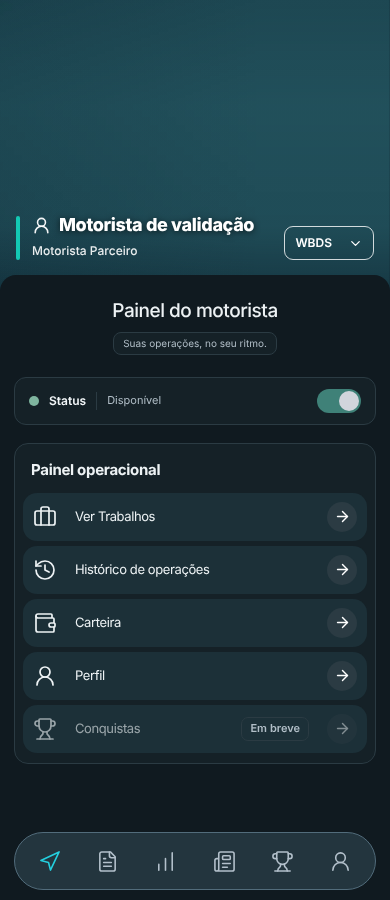
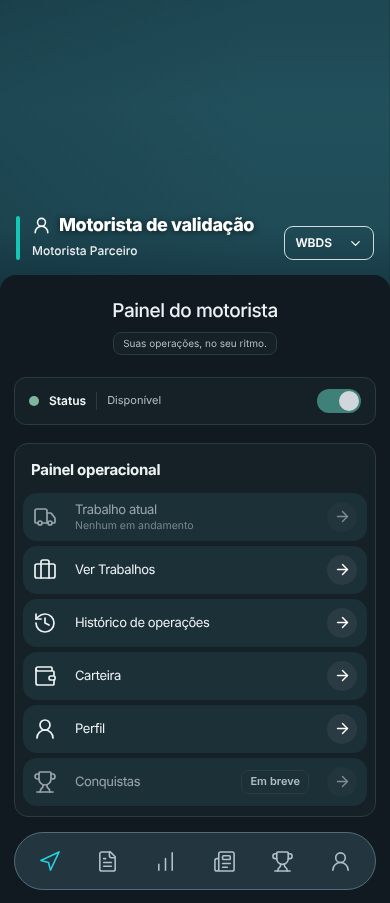
v82: Painel do motorista vira o menu — opção Trabalho atual no topo; escolher o perfil de motorista cai no menu — Android 1.0.588, Web 2.3.245, Windows 0.2.14
Claude-Session: https://claude.ai/code/session_01ASk6AVRSjq21hzr82RT83a

diff --git a/src/pages/driver/Dashboard.tsx b/src/pages/driver/Dashboard.tsx
@@ -20,7 +20,7 @@ import { LandscapeOperationPanel } from "../../components/operations/LandscapeOp
 import { useLandscapeWorkspace } from "../../hooks/useLandscapeWorkspace";
 import { useLandscapeBodyHeight } from "../../hooks/useLandscapeBodyHeight";
 import { createPortal } from "react-dom";
-import React, { useState, useMemo, useEffect } from "react";
+import React, { useState, useMemo, useEffect, useRef } from "react";
 import { PendingProOperationNotice } from "../../components/PendingProOperationNotice";
 import { useLocation, useNavigate } from "react-router-dom";
 import { useActivityStore, useOperationalStore, useSessionStore, type Job } from "../../context/AppContext";
@@ -66,6 +66,7 @@ import {
   ChevronsUpDown,
   ChevronsDownUp,
   Wallet,
+  ArrowLeft,
 } from "lucide-react";
 import { format, differenceInDays } from "date-fns";
 import { prepareAndCommitNavigation } from "../../lib/navigationTransition";
@@ -307,6 +308,20 @@ function DashboardComponent({
     () => resolveOperationContract(myJob, contracts),
     [myJob, contracts],
   );
+
+  // O Painel do motorista abre no menu (mesmo com operação em andamento); "Trabalho atual" abre a operação.
+  const [currentOpen, setCurrentOpen] = useState(false);
+  const baselineJobRef = useRef<string | null | undefined>(undefined);
+  useEffect(() => {
+    if (operationCardOnly) return;
+    if (!(jobsReady && (!myJob || Boolean(contract) || contractsReady))) return;
+    const id = myJob?.id || null;
+    if (baselineJobRef.current === undefined) { baselineJobRef.current = id; return; } // operação que já existia ao abrir: fica no menu
+    if (!id) { baselineJobRef.current = null; setCurrentOpen(false); return; }
+    if (id !== baselineJobRef.current) { baselineJobRef.current = id; setCurrentOpen(true); } // iniciou um trabalho agora: abre a operação
+  }, [operationCardOnly, jobsReady, contractsReady, myJob, contract]);
+  const panelMenuStamp = (location.state as { panelMenu?: number } | null)?.panelMenu;
+  useEffect(() => { if (panelMenuStamp) setCurrentOpen(false); }, [panelMenuStamp]);
 
   const currentOperationTrips = useMemo(() => {
     if (!myJob) return [];
@@ -969,7 +984,7 @@ function DashboardComponent({
     );
   }
 
-  if (!myJob || !contract) {
+  if (!myJob || !contract || (!operationCardOnly && !currentOpen)) {
     if (operationCardOnly) {
       return <div className="rounded-2xl border border-dashed border-slate-200 bg-white p-6 text-center text-[13px] text-slate-500 dark:border-nvu-line dark:bg-nvu-surface dark:text-nvu-muted">Nenhuma operação em andamento.</div>;
     }
@@ -991,6 +1006,7 @@ function DashboardComponent({
       key={`assigned:${resultScope}`} jobs={pendingDriverJobs} contracts={contracts} companyName={currentCompany?.companyName || currentCompany?.name} suspended={operationalSuspension.active}
       startingJobId={startingJobId} onStart={async job => {
         if (operationalSuspension.active || startingJobId) return;
+        if (myJob && contract) { toast.error("Finalize o trabalho atual antes de iniciar outro."); return; }
         if (job.partnershipId) { setPartnershipStartJob(job); return; }
         { const offer = rewardOfferFor(job); if (offer) { setRewardStart({ job, offer }); return; } }
         setStartingJobId(job.id);
@@ -1004,9 +1020,11 @@ function DashboardComponent({
         online={Boolean(currentUser?.isOnline)} suspended={operationalSuspension.active}
         onAvailabilityChange={updateUserOnlineStatus}
         onProfile={() => navigate("/driver/profile", { state: { profileTab: "profile" } })} onWallet={() => navigate("/driver/recompensas")}
+        current={myJob && contract ? { name: String(contract.name || "Operação"), progress: `${currentOperationProgress}${contract.totalDeliveries ? ` de ${contract.totalDeliveries}` : ""} entregas` } : null}
+        onCurrent={() => setCurrentOpen(true)}
         workJobIds={pendingDriverJobs.map(job => job.id)}
         works={<>
-          {solicitarTrabalhoCard}
+          {myJob && contract ? <section className="nvu-idle-empty-queue" aria-label="Trabalho em andamento"><h2>Trabalho em andamento</h2><p>Finalize o trabalho atual para solicitar ou iniciar outro.</p></section> : solicitarTrabalhoCard}
           {filaOperacionalSection}
           {hasAutomaticQueues && <AutomaticDriverQueue blocked={operationalSuspension.active} />}
           {!hasAutomaticQueues && !pendingDriverJobs.length && <section className="nvu-idle-empty-queue" aria-label="Fila operacional">
@@ -1297,6 +1315,10 @@ function DashboardComponent({
 
   return (
     <div className="space-y-3 sm:space-y-4 w-full max-w-7xl mx-auto pb-4 pt-0">
+      {!operationCardOnly && <div className="nvu-current-back" data-testid="current-operation-back">
+        <button type="button" onClick={() => setCurrentOpen(false)} aria-label="Voltar ao painel do motorista"><ArrowLeft size={18} aria-hidden="true" /></button>
+        <h2>Trabalho atual</h2>
+      </div>}
       {maintenanceMode && (
         <WorkModeMaintenanceDialog
           mode={maintenanceMode === "simple" ? "pro" : maintenanceMode}

diff --git a/src/components/driver/DriverIdlePanel.tsx b/src/components/driver/DriverIdlePanel.tsx
@@ -1,5 +1,5 @@
 import React, { useState } from "react";
-import { ArrowLeft, ArrowRight, Briefcase, CheckCircle2, ChevronDown, ChevronRight, Clock, History, Route, Trophy, UserRound, Wallet } from "lucide-react";
+import { ArrowLeft, ArrowRight, Briefcase, CheckCircle2, ChevronDown, ChevronRight, Clock, History, Route, Trophy, Truck, UserRound, Wallet } from "lucide-react";
 import type { LucideIcon } from "lucide-react";
 import { useSessionStore } from "../../context/AppContext";
 import { useDriverRewards } from "../../hooks/useRewards";
@@ -17,13 +17,16 @@ type IdleMenuItem = { id: string; label: string; icon: LucideIcon; hint?: string
  * Painel do motorista sem operação: status no topo e uma lista de opções (mesmo desenho da Central de gestão).
  * "Ver Trabalhos" e "Histórico de operações" abrem a própria tela dentro do painel, com botão de voltar.
  */
-export function DriverIdlePanel({ online, suspended, onAvailabilityChange, onProfile, onWallet, workJobIds = [], works, history, defaultView = "menu", children }: {
+export function DriverIdlePanel({ online, suspended, onAvailabilityChange, onProfile, onWallet, current = null, onCurrent, workJobIds = [], works, history, defaultView = "menu", children }: {
   online: boolean;
   suspended: boolean;
   onAvailabilityChange: (online: boolean) => void;
   onProfile: () => void;
   /** Abre a página Carteira (ofertas, recebimentos e histórico de ganhos). */
   onWallet: () => void;
+  /** Trabalho em andamento (se houver): a opção "Trabalho atual" abre a tela da operação. */
+  current?: { name: string; progress?: string } | null;
+  onCurrent?: () => void;
   /** Trabalhos recebidos (ids) — conta quantos têm oferta de pagamento nova. */
   workJobIds?: string[];
   works: React.ReactNode;
@@ -38,6 +41,7 @@ export function DriverIdlePanel({ online, suspended, onAvailabilityChange, onPro
   const worksCount = workJobIds.length, worksNew = offers.filter(offer => offer.status === "pending" && offer.jobId && workJobIds.includes(offer.jobId)).length;
   const id = React.useId();
   const items: IdleMenuItem[] = [
+    { id: "current", label: "Trabalho atual", icon: Truck, hint: current ? [current.name, current.progress].filter(Boolean).join(" · ") : "Nenhum em andamento", disabled: !current, onSelect: onCurrent },
     { id: "works", label: "Ver Trabalhos", icon: Briefcase, badge: worksNew > 0 ? `${worksNew} ${worksNew === 1 ? "nova" : "novas"}` : worksCount || undefined, onSelect: () => setView("works") },
     { id: "history", label: "Histórico de operações", icon: History, onSelect: () => setView("history") },
     { id: "wallet", label: "Carteira", icon: Wallet, onSelect: onWallet },

diff --git a/src/layouts/AdminLayout.tsx b/src/layouts/AdminLayout.tsx
@@ -1,3 +1,4 @@
+import { driverPanelMenuState } from "../lib/driverPanelMenu";
 import { corporateNotificationTab } from "../lib/notificationNavigation";
 import { RetainedWorkspaceOutlet } from "../components/common/RetainedWorkspaceOutlet";
 import { NvuWordmark } from "../components/common/NvuWordmark";
@@ -265,7 +266,7 @@ export default function AdminLayout() {
       // profile. Navigation alone would leave its queued role update alive.
       commitRoleVisualTransition(newRole, () => {
         void switchRole(newRole, activeCompanyId || undefined);
-        navigate(target, { replace: true });
+        navigate(target, { replace: true, ...(target === "/driver/profile" ? { state: driverPanelMenuState() } : {}) });
       });
       return;
     }
@@ -296,7 +297,7 @@ export default function AdminLayout() {
 
     commitRoleVisualTransition(newRole, () => {
       void switchRole(newRole, activeCompanyId || undefined);
-      navigate(target, { replace: true });
+      navigate(target, { replace: true, ...(target === "/driver/profile" ? { state: driverPanelMenuState() } : {}) });
     });
     void preloadRoute(target).catch(() => undefined);
   };
@@ -311,7 +312,7 @@ export default function AdminLayout() {
       void switchRole(nextRole, companyId);
       setIsProfileMenuOpen(false);
       setIsMobileMenuOpen(false);
-      navigate(target, { replace: true });
+      navigate(target, { replace: true, ...(target === "/driver/profile" ? { state: driverPanelMenuState() } : {}) });
     };
 
     if (nextRole === activeRole) {

diff --git a/src/layouts/DriverLayout.tsx b/src/layouts/DriverLayout.tsx
@@ -1,3 +1,4 @@
+import { driverPanelMenuState } from "../lib/driverPanelMenu";
 import { RetainedWorkspaceOutlet } from "../components/common/RetainedWorkspaceOutlet";
 import { NvuWordmark } from "../components/common/NvuWordmark";
 import { resolveNewsSessionSimulator } from "../lib/newsSimulator";
@@ -320,7 +321,7 @@ export default function DriverLayout() {
     if (activeRole === newRole) {
       commitRoleVisualTransition(newRole, () => {
         void switchRole(newRole, activeCompanyId || undefined);
-        navigate(target, { replace: true });
+        navigate(target, { replace: true, ...(target === "/driver/profile" ? { state: driverPanelMenuState() } : {}) });
       });
       return;
     }
@@ -345,7 +346,7 @@ export default function DriverLayout() {
 
     commitRoleVisualTransition(newRole, () => {
       void switchRole(newRole, activeCompanyId || undefined);
-      navigate(target, { replace: true });
+      navigate(target, { replace: true, ...(target === "/driver/profile" ? { state: driverPanelMenuState() } : {}) });
     });
     void preloadRoute(target).catch(() => undefined);
   };
@@ -361,7 +362,7 @@ export default function DriverLayout() {
       void switchRole(nextRole, companyId);
       setIsProfileMenuOpen(false);
       setIsMobileMenuOpen(false);
-      navigate(target, { replace: true });
+      navigate(target, { replace: true, ...(target === "/driver/profile" ? { state: driverPanelMenuState() } : {}) });
     };
 
     if (nextRole === activeRole) {

diff --git a/src/components/driver/DriverWorkspace.css b/src/components/driver/DriverWorkspace.css
@@ -539,3 +539,8 @@ body .nvu-admin-company-page.nvu-company-workspace .nvu-company-hero-content { p
 .nvu-offer-card[data-late="1"] .nvu-offer-note strong { color: #c0392b; }
 .nvu-offer-start { display: flex; align-items: center; justify-content: space-between; gap: 10px; min-height: 44px; margin-top: 1px; padding: 4px 5px 4px 18px; border-radius: 999px; font-size: 12.5px; font-weight: 800; color: #052b2a; background: linear-gradient(135deg, #c9fff6, #69e0cf 60%, #3fc1b3); box-shadow: 0 8px 20px rgba(63, 193, 179, .28), inset 0 1px 0 rgba(255, 255, 255, .55); }
 .nvu-offer-start i { display: grid; place-items: center; width: 34px; height: 34px; border-radius: 50%; background: #052b2a; color: #c9fff6; }
+
+/* Botão de voltar da tela "Trabalho atual" (a operação aberta pelo menu do painel). */
+.nvu-current-back { display: flex; align-items: center; gap: 10px; padding: 2px 2px 0; }
+.nvu-current-back h2 { margin: 0; font-size: 15px; font-weight: 700; letter-spacing: -.02em; color: var(--driver-text, inherit); }
+.nvu-current-back button { display: grid; place-items: center; width: 36px; height: 36px; border-radius: 50%; border: 1px solid var(--driver-line, #dce5ea); color: var(--driver-text, inherit); background: var(--driver-paper, transparent); }

diff --git a/scripts/fixtures/driver-idle-panel-492.tsx b/scripts/fixtures/driver-idle-panel-492.tsx
@@ -37,7 +37,7 @@ function App() {
       <main className="nvu-driver-surface" data-page="dashboard">
         <DriverIdlePanel key={`panel:${generation}`} defaultView={config.view || "menu"} online={config.online !== false} suspended={Boolean(config.suspended)}
           onAvailabilityChange={online => { calls.push({ action: "availability", online }); setConfig((v: any) => ({ ...v, online })); }}
-          onProfile={() => calls.push({ action: "profile" })} onWallet={() => calls.push({ action: "wallet" })} workJobIds={config.manual ? [manual.id] : []}
+          current={config.current ? { name: "BLS - 30", progress: "3 de 12 entregas" } : null} onCurrent={() => calls.push({ action: "current" })} onProfile={() => calls.push({ action: "profile" })} onWallet={() => calls.push({ action: "wallet" })} workJobIds={config.manual ? [manual.id] : []}
           works={<>
           <DriverWorkRequest variant="panel" online={config.online !== false} suspended={Boolean(config.suspended)} busy={Boolean(config.busy)}
             pending={Boolean(config.pending)} requestedAt="12:00" success={Boolean(config.success)}

diff --git a/src/lib/driverPanelMenu.ts b/src/lib/driverPanelMenu.ts
@@ -1,0 +1,7 @@
+/**
+ * Escolher o perfil de motorista (ou trocar de empresa como motorista) sempre cai no menu do Painel do motorista,
+ * mesmo com uma operação em andamento: o estado de navegação leva um carimbo novo e o painel volta para o menu.
+ */
+export function driverPanelMenuState() {
+  return { profileTab: "dashboard", panelMenu: Date.now() };
+}

diff --git a/capacitor.config.ts b/capacitor.config.ts
@@ -15,7 +15,7 @@ const selfHostedOtaEnabled =
   && Boolean(selfHostedOtaManifestUrl)
   && Boolean(selfHostedOtaPublicKey);
 const nativeChannel = String(
-  process.env.NVU_NATIVE_CHANNEL || "production-587",
+  process.env.NVU_NATIVE_CHANNEL || "production-588",
 ).trim();
 
 /**

diff --git a/LEIA-ME-1.0.588.md b/LEIA-ME-1.0.588.md
@@ -1,6 +1,14 @@
-# NVU PRO 1.0.587 (Android) / Web 2.3.244 / Windows 0.2.13
+# NVU PRO 1.0.588 (Android) / Web 2.3.245 / Windows 0.2.14
 
-Base atual do projeto (branch `dist-build`). **Uma única base**: Web (`src/`), Android (`android/`, `versionCode` 587 — instala como atualização da 586/585/584/583/582/581/580/579/578/577/576/575/574/573/572/571/570/569/568/567/566/565/564/563/562/561/560/559/558/557/556/555/554/553/552/551/550, sem limpar dados), Windows (`desktop/windows/`, 0.2.9, carrega o mesmo web) e servidor (`functions/`, `firestore.rules`, `storage.rules`).
+Base atual do projeto (branch `dist-build`). **Uma única base**: Web (`src/`), Android (`android/`, `versionCode` 588 — instala como atualização da 587/586/585/584/583/582/581/580/579/578/577/576/575/574/573/572/571/570/569/568/567/566/565/564/563/562/561/560/559/558/557/556/555/554/553/552/551/550, sem limpar dados), Windows (`desktop/windows/`, 0.2.9, carrega o mesmo web) e servidor (`functions/`, `firestore.rules`, `storage.rules`).
+
+## 1.0.588 — Painel do motorista vira o menu (Trabalho atual)
+- **O Painel do motorista agora abre sempre no menu**, com ou sem operação em andamento. **Escolher o perfil de motorista** (Alternar perfil / trocar de empresa como motorista) **cai nesse menu**.
+- **Nova opção “Trabalho atual” no topo da lista.** Com operação em andamento, ela mostra o nome e o progresso e **abre a tela da operação** (a mesma de antes: card, veículo, finalizar etc.), com botão de voltar ao menu. Sem operação, fica desabilitada (“Nenhum em andamento”).
+- **Ao iniciar um trabalho**, a tela da operação abre sozinha. Ao finalizar, volta ao menu (com o resultado da operação).
+- Em “Ver Trabalhos”, com um trabalho em andamento, o pedido de trabalho dá lugar ao aviso “Finalize o trabalho atual…” e a fila não inicia outro trabalho.
+- A aba **Atividade** continua mostrando a operação ativa como antes.
+- Sem mudança no servidor (nada a publicar). **Windows 0.2.14** acompanha esta versão.
 
 ## 1.0.587 — Painel operacional: sem “Solicitar trabalho”, Perfil abre o Resumo do período
 - **Removida a opção “Solicitar trabalho”** do Painel operacional (o pedido continua em “Ver Trabalhos”). A lista fica: Ver Trabalhos, Histórico de operações, Carteira, Perfil e Conquistas (em breve).

diff --git a/desktop/windows/README.md b/desktop/windows/README.md
@@ -1,4 +1,4 @@
-# NVU PRO Windows 0.2.13
+# NVU PRO Windows 0.2.14
 
 Aplicativo Windows (Electron) e plugin de telemetria SCS (ETS2/ATS) do mesmo projeto Web/Android. Este documento é técnico; o guia para o usuário final é `GUIA-ATUALIZAR-NVU-E-PREPARAR-ETS2-ATS.md`.
 
@@ -8,7 +8,7 @@ Aplicativo Windows (Electron) e plugin de telemetria SCS (ETS2/ATS) do mesmo pro
 
 | Arquivo | Para quem |
 |---|---|
-| `NVU-PRO-Setup-0.2.13-x64.exe` | **Principal.** Instala ou atualiza a NVU (por usuário, sem administrador). |
+| `NVU-PRO-Setup-0.2.14-x64.exe` | **Principal.** Instala ou atualiza a NVU (por usuário, sem administrador). |
 | `release-manifest.json`, `SHA256SUMS.txt`, `Verificar-NVU.ps1` | Conferência do arquivo baixado (tamanho, SHA-256, assinatura). |
 | `nvu_scs_telemetry.dll` + `.manifest.json` e `plugin/` (fonte) | Opcional/técnico: plugin e fonte do plugin. |
 | Projeto completo (ZIP) e relatório | Opcional/técnico. |
@@ -29,7 +29,7 @@ npm run windows:verify                # reverifica artifacts/windows (tamanho, S
 npm run windows:portable              # secundário: ZIP sem instalação
 npm run windows:dev                   # abre o aplicativo a partir do código
 npm run test:role-matrix              # matriz por papel (emulador, dados fictícios)
-bash desktop/windows/tests/e2e/wine-installer-check.sh artifacts/windows/NVU-PRO-Setup-0.2.13-x64.exe ~/wine-nvu   # emulado (Wine), prefixo descartável
+bash desktop/windows/tests/e2e/wine-installer-check.sh artifacts/windows/NVU-PRO-Setup-0.2.14-x64.exe ~/wine-nvu   # emulado (Wine), prefixo descartável
 ```
 
 A versão do aplicativo e do plugin vem de **uma única fonte**: `desktop/windows/package.json` (`version` e `nvu.pluginVersion`). O build do plugin grava a versão na DLL e gera `nvu_scs_telemetry.manifest.json` (SHA-256/tamanho); o aplicativo confere a DLL empacotada com esse manifesto ao iniciar.
